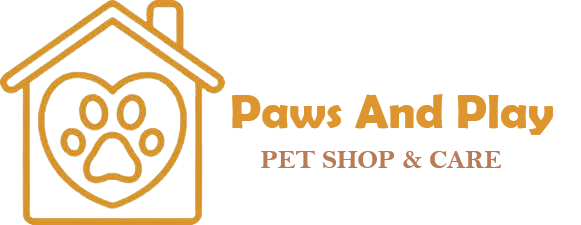
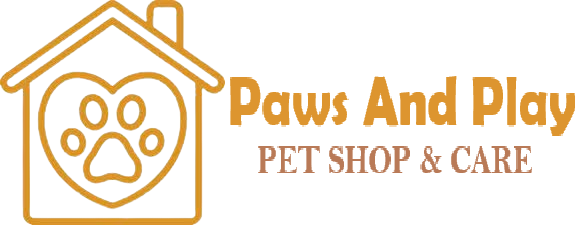
fixing

Changed region(s): [[0.3718, 0.3422, 0.9914, 0.6222], [0.4337, 0.6222, 0.9294, 0.7778]]

diff --git a/index.html b/index.html
@@ -10,12 +10,12 @@
 </head>
 <body>
     <!--  Nav  -->
-    <nav class="navbar navbar-expand-md">
-        <div class="container-xl">
+    <nav class="navbar navbar-expand-md" id="naV">
+        <div class="container-xxl">
             <a href="#intro" class="navbar-brand">
-                <span><img src="images/left_title.png" class="img-fluid w-25" alt="cAT AND DOG"></span>
+                <span><img src="images/left_title.png" class="img-fluid" width="165" alt="cAT AND DOG"></span>
             </a>
-            <button class="navbar-toggler" type="button" data-bs-toggle="collapse" data-bs-target="#main-nav" aria-controls="main-nav" aria-expanded="false" aria-label="Toggle Navigation">
+            <button class="navbar-toggler" type="button" data-bs-toggle="collapse" data-bs-target="#main-nav" aria-controls="main-nav" aria-expanded="false" aria-label="Toggle navigation">
                 <span class="navbar-toggler-icon"></span>
             </button>
                         <div class="collapse navbar-collapse justify-content-end align-items-center"
@@ -33,7 +33,7 @@
 
                 </ul>
             </div>
-        </div>
+        </div>  
     </nav>
     <!-- Section -->
      <section class="intro">

diff --git a/styles/uni.css b/styles/uni.css
@@ -1,4 +1,12 @@
 
+body{
+    background-color: rgb(255, 225, 168);
+}
+
+#naV{
+    background: linear-gradient(to bottom, rgb(233, 182, 87), rgb(255, 255, 255, 0));
+}
+
 #title_top_1{
     font-family: 'Fredoka One', cursive, 'Times New Roman', Times, serif;
     color: #3C3731;
